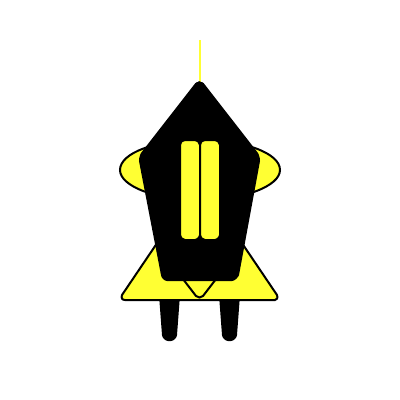
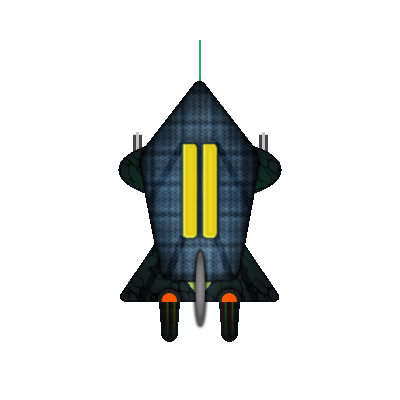
New Ship Graphic
New temporary ship graphic and repositioned thrusters.

Changed region(s): [[0.3, 0.09, 0.72, 0.84]]

diff --git a/game.js b/game.js
@@ -484,7 +484,7 @@ function paintPlayerShip() {
 	c.translate(50, 70);
 	c.rotate(shipDirection * TO_RADIANS);
 	c.drawImage(shipImage, -50, -70, 100, 140);
-	c.drawImage(geCurrentShipThrusterImage(), -50, 45, 100, 140);
+	c.drawImage(geCurrentShipThrusterImage(), -50, 33, 100, 140);
 	//c.drawImage(shipGunImage1, -65, -90, 100, 140);
 	c.restore();
 }

diff --git a/index.html b/index.html
@@ -8,7 +8,10 @@
 <!-- Space Mining Pirates  -->
 <!--  -->
 
+ 
 
+
+ 
 
 
 
